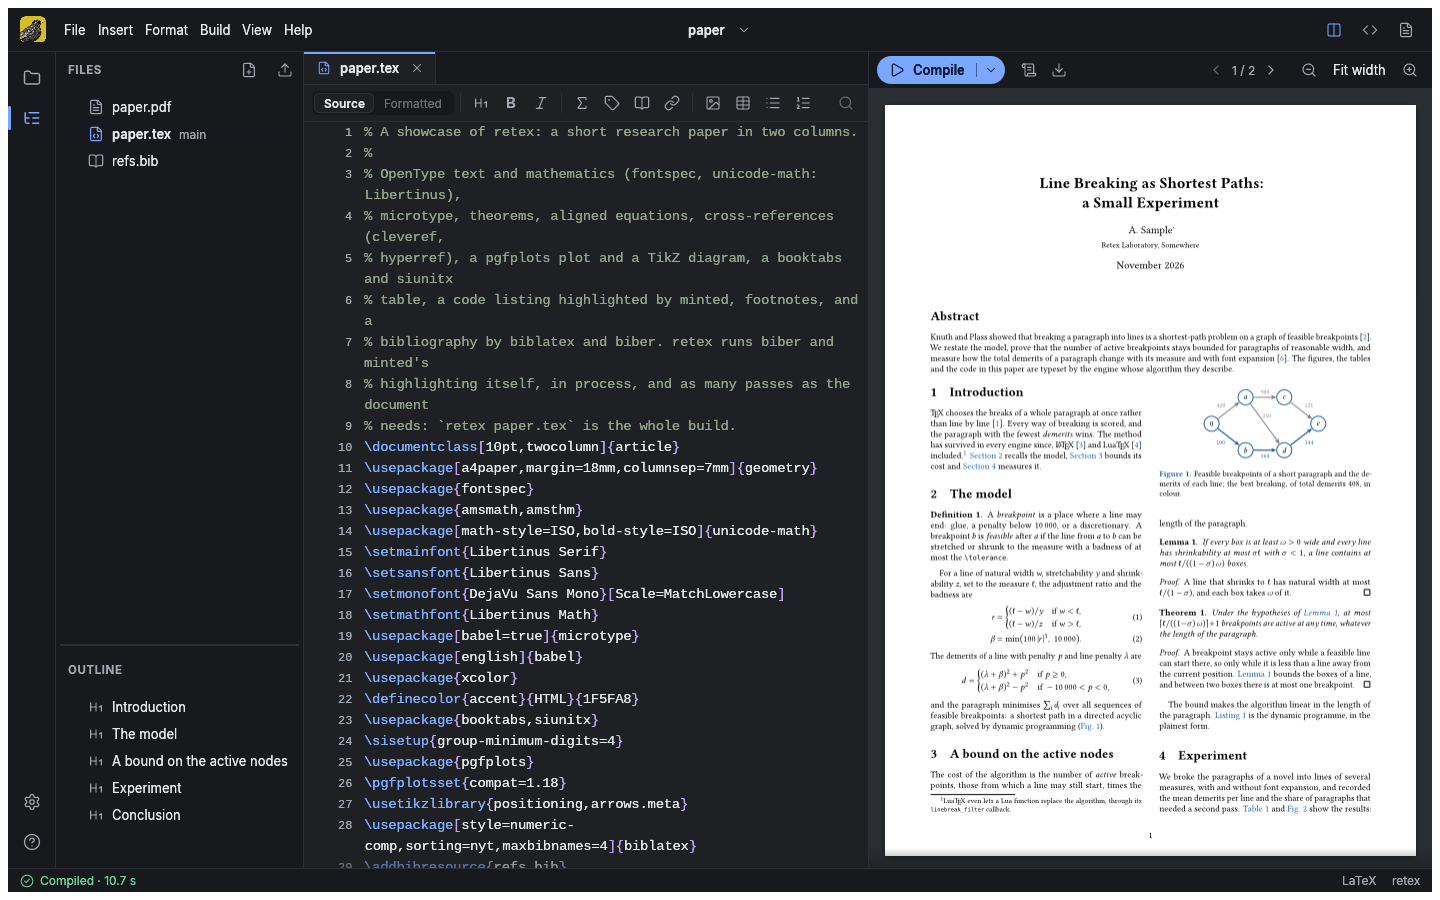
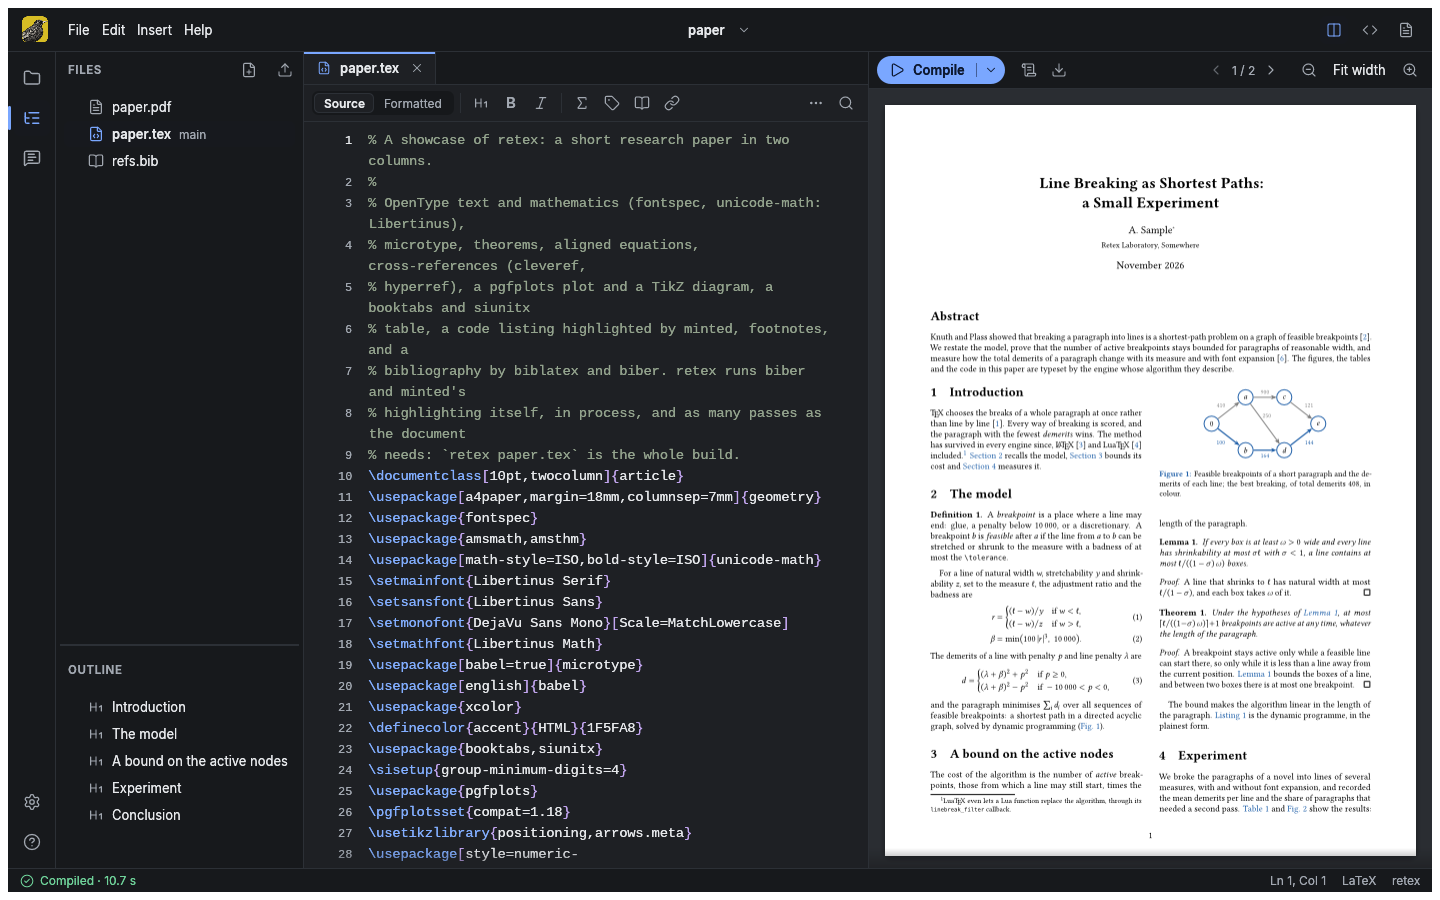
README: screenshots of the current app, with the formatted view and review
Rendered offscreen from TeXCraft's own interface (egui_kittest), with PDFs built by retex.

Changed region(s): [[0.2188, 0.0933, 0.5938, 0.9644], [0.0, 0.0311, 0.2188, 0.0622], [0.0, 0.1556, 0.0312, 0.1867]]

diff --git a/ATTRIBUTION.md b/ATTRIBUTION.md
@@ -89,6 +89,8 @@ Every asset and fixture in this repository, with its source and licence (standar
 | `docs/images/paper-dark.png` | TeXCraft with retex's paper sample, dark theme | The TeXCraft contributors; the documents shown are retex's samples (made for retex, CC0-1.0) | Rendered offscreen from TeXCraft's own interface (egui_kittest), with PDFs built by `texcraft-cli compile` | MIT OR Apache-2.0 (the samples shown: CC0-1.0) | Screenshot of our own app |
 | `docs/images/log-dark.png` | TeXCraft's build log, dark theme | The TeXCraft contributors; the documents shown are retex's samples (made for retex, CC0-1.0) | Rendered offscreen from TeXCraft's own interface (egui_kittest), with PDFs built by `texcraft-cli compile` | MIT OR Apache-2.0 (the samples shown: CC0-1.0) | Screenshot of our own app |
 | `docs/images/start.png` | TeXCraft's start page | The TeXCraft contributors; the documents shown are retex's samples (made for retex, CC0-1.0) | Rendered offscreen from TeXCraft's own interface (egui_kittest), with PDFs built by `texcraft-cli compile` | MIT OR Apache-2.0 (the samples shown: CC0-1.0) | Screenshot of our own app |
+| `docs/images/formatted.png` | TeXCraft's formatted view of its example article | The TeXCraft contributors; the documents shown are retex's samples (made for retex, CC0-1.0) | Rendered offscreen from TeXCraft's own interface (egui_kittest), with PDFs built by `texcraft-cli compile` | MIT OR Apache-2.0 (the samples shown: CC0-1.0) | Screenshot of our own app |
+| `docs/images/review.png` | Comments in review on TeXCraft's example article (names and comments invented for the picture) | The TeXCraft contributors; the documents shown are retex's samples (made for retex, CC0-1.0) | Rendered offscreen from TeXCraft's own interface (egui_kittest), with PDFs built by `texcraft-cli compile` | MIT OR Apache-2.0 (the samples shown: CC0-1.0) | Screenshot of our own app |
 
 Publishers' templates are not part of TeXCraft. `templates/catalog.toml` is our own data (MIT OR Apache-2.0): it names each template, its TeX Live package and that package's licence. TeXCraft downloads a template's files from TeX Live when the user asks for it, keeps them in the user's data folder with a `TEMPLATE-LICENSE` note, and copies that note into projects made from it.
 

diff --git a/README.md b/README.md
@@ -54,6 +54,16 @@
 </td>
 </tr>
 <tr>
+<td width="50%" valign="top">
+  <img src="docs/images/formatted.png" alt="The formatted view of the example article: the preamble folded into a bar, the title, the abstract, headings in a serif face, formulas shown as their source in a pill and references as chips, beside the typeset PDF" width="100%">
+  <p align="center"><sub><b>Formatted view</b>: the same file as a document, headings, lists, references and formulas, beside its PDF</sub></p>
+</td>
+<td width="50%" valign="top">
+  <img src="docs/images/review.png" alt="Comments in review: a passage of the source highlighted, and beside it in the margin a thread where Ada asks for a citation and Ben answers, with Reply and Resolve" width="100%">
+  <p align="center"><sub><b>Review</b>: comments beside their passages, kept in the project and shared through git</sub></p>
+</td>
+</tr>
+<tr>
 <td colspan="2" valign="top">
   <img src="docs/images/start.png" alt="The start page: New Project and Open Folder, and three recent projects as cards with the first page of their last PDF" width="100%">
   <p align="center"><sub><b>Start page</b>: recent projects with the first page of their last PDF</sub></p>

diff --git a/docs/progress.d/0-polish-2.md b/docs/progress.d/0-polish-2.md
@@ -1,0 +1,1 @@
+- 2026-11-23: A second polish pass: the start page's rows end on one edge with a themed placeholder for projects without a PDF, comment lines no longer cross the text, and the README's screenshots show the current app, with the formatted view and comments in review. Builds without craft-fonts (CI) have their bold and italic faces again.
